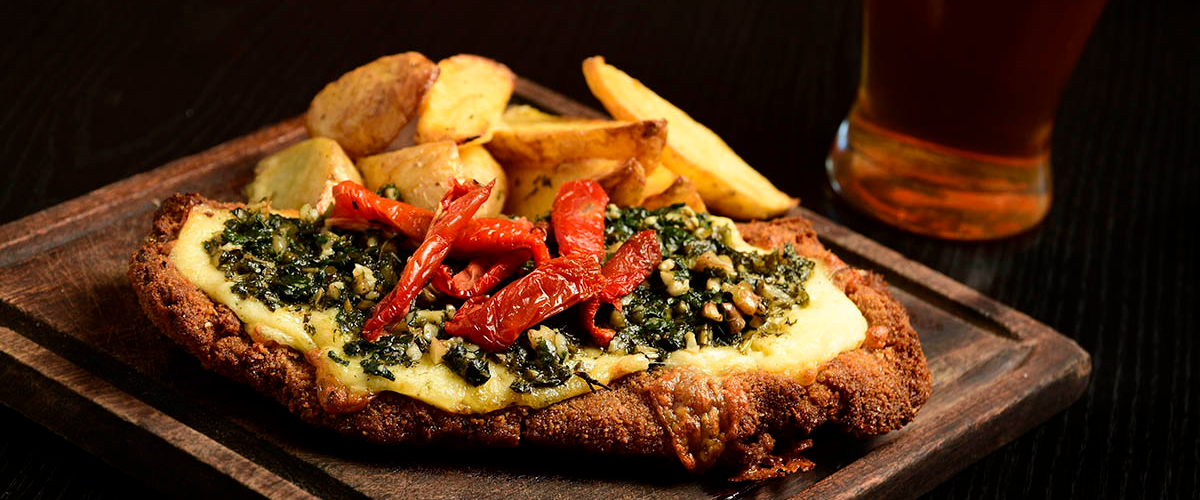
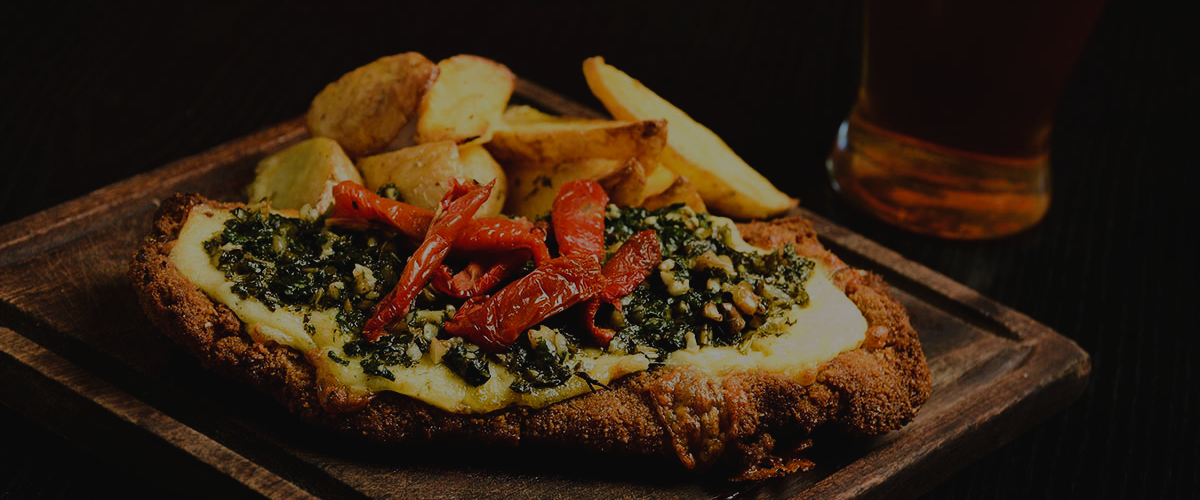
Add files via upload

diff --git a/index2.html b/index2.html
@@ -15,7 +15,7 @@
                 <button class="navbar-toggler" type="button" data-bs-toggle="collapse" data-bs-target="#navbarTogglerDemo03" aria-controls="navbarTogglerDemo03" aria-expanded="false" aria-label="Toggle navigation">
                     <span class="navbar-toggler-icon icono.index"></span>
                 </button>
-                <a class="navbar-brand" href="index.html"><img src="imgs/logo.png" alt="" id="logo-header"></a>
+                <a class="navbar-brand" href="index.html"><img src="/imgs/logo.png" alt="" id="logo-header"></a>
                 <div class="collapse navbar-collapse" id="navbarTogglerDemo03">
                     <ul class="navbar-nav me-auto mb-2 mb-lg-0">
                         <li class="nav-item">
@@ -29,14 +29,10 @@
                         </li>
                     </ul>
                 </div>
-                <svg xmlns="http://www.w3.org/2000/svg" width="30" height="30" fill="currentColor" class="bi bi-person-circle" viewBox="0 0 16 16">
-                    <a href="registro.html" class="a-registro">
-                        <path d="M11 6a3 3 0 1 1-6 0 3 3 0 0 1 6 0z"/>
-                        <path fill-rule="evenodd" d="M0 8a8 8 0 1 1 16 0A8 8 0 0 1 0 8zm8-7a7 7 0 0 0-5.468 11.37C3.242 11.226 4.805 10 8 10s4.757 1.225 5.468 2.37A7 7 0 0 0 8 1z"/>    
-                    </a>
-                </svg>
             </div>
         </nav>
+        <a href="registro.html" class="a-registro"><img src="imgs/registro.png" alt=""></a>
+
     </header>
         <div id="carouselExampleCaptions" class="carousel slide">
             <div class="carousel-indicators">
@@ -76,29 +72,35 @@
               <span class="visually-hidden">Next</span>
             </button>
         </div>
+        <div class="card text-bg-dark card-mobile">
+            <img src="imgs/card-mobile.png" class="card-img" alt="...">
+            <div class="card-img-overlay">
+              <h5 class="card-title card-title-m">BURGERS POSTA</h5>
+            </div>
+          </div>
     <section class="container" id="cajas-index">
-        <div class="card border-light" style="width: 18rem;">
+        <div class="card border-light card-index" style="width: 18rem;">
             <img src="imgs/index1.png" class="card-img-top" alt="...">
             <div class="card-body">
                 <h5 class="card-title">Sucursales</h5>
                 <a href="contacto.html" class="btn" id="boton-index">¡Visitanos!</a>
             </div>
         </div>
-        <div class="card border-light" style="width: 18rem;">
+        <div class="card border-light card-index" style="width: 18rem;">
             <img src="imgs/index2.png" class="card-img-top" alt="...">
             <div class="card-body">
                 <h5 class="card-title">Nuestros productos</h5>
                 <a href="productos.html" class="btn" id="boton-index">Ver Menú</a>
             </div>
         </div>
-        <div class="card border-light" style="width: 18rem;">
+        <div class="card border-light card-index" style="width: 18rem;">
             <img src="imgs/index3.png" class="card-img-top" alt="...">
             <div class="card-body">
                 <h5 class="card-title">Contacto</h5>
                 <a href="contacto.html" class="btn" id="boton-index">¡Contactános!</a>
             </div>
         </div>
-        <div class="card border-light" style="width: 18rem;">
+        <div class="card border-light card-index" style="width: 18rem;">
             <img src="imgs/index4.png" class="card-img-top" alt="...">
             <div class="card-body">
                 <h5 class="card-title">Nosotros</h5>

diff --git a/styles2.css b/styles2.css
@@ -3,6 +3,14 @@
 *{
     font-family: 'Montserrat', sans-serif;
 }
+.card-mobile{
+    display: none;
+}
+#cabecera_inicio{
+    display: flex;
+    align-content: center;
+    align-items: center;
+    justify-content: space-around;}
 .navbar{
     background-color: #252525!important;
 }
@@ -14,9 +22,6 @@
 }
 .icono-index{
     color: #fa7b00;
-}
-.a-registro{
-    position: fixed;
 }
 .a-registro, .a-redes{
     color: #fa7b00;
@@ -137,15 +142,40 @@
     height: 150px;
 }
 
-@media (min-width: 350px) and (max-width:768px) {
+@media (min-width: 350px) and (max-width:767px) {
     #texto{
         display: none;
+    }
+    #redes{
+        padding: 0rem;
+        justify-content: center;
+    }
+    .a-redes{
+        padding-left: 1cm;
     }
     #foto_contacto{
         display: none;
     }
 }
-
+@media (min-width:768px) and (max-width:1000px) {
+    #texto,h5{
+        font-size: 0.95rem;
+        margin:0cm;
+    }
+    #redes{
+        padding-left: 3rem;
+    }
+    .card-index{
+        margin-bottom: 1cm;
+    }
+    #h1-index{
+        font-size: 2rem;
+    }
+    .carousel-caption,h4 {
+        font-size: 1rem;
+    }
+    
+}
 @media (min-width: 350px) and (max-width:1200px) {
     #foto_contacto{
         display: none;
@@ -155,6 +185,43 @@
 @media (min-width: 992px){
     .navbar-expand-lg .navbar-nav {
         margin-left: 1000px;
+    }
+}
+@media (min-width:350px) and (max-width:535px) {
+    #texto,h5{
+        font-size: 0.95rem;
+        margin:0cm;
+    }
+    #redes{
+        padding-left: 3rem;
+    }
+    .card-index{
+        margin-bottom: 1cm;
+    }
+    #h1-index{
+        font-size: 2rem;
+    }
+    .carousel-caption,h4 {
+        font-size: 1rem;
+    }
+    .carousel{
+        display: none;
+    }
+    .card-mobile{
+        display: flex;
+        border-radius: 0cm;
+    }
+    .card-title-m{
+        font-family: 'Permanent Marker', cursive;
+        font-style: italic;
+        font-weight: 900;
+        font-size: 3rem;
+        display: flex;
+        justify-content: center;    
+    }
+    #redes{
+        display: flex;
+        padding: 0cm;
     }
 }
 /*FINAL ESTILOS CONTACTO*/

diff --git a/index.html b/index.html
@@ -9,12 +9,33 @@
     <link rel="stylesheet" href="styles2.css">
 </head>
 <body>
-    <header id="cabecera_inicio" class="container-fluid">
-        <div class="row" id="modulo1">
-            <div class="col-sm-2" id="marca"></div>
-            <nav class="col-sm-8" id="botonera"></nav>
-            <div class="col-sm-2" id="registro"></div>
-        </div>    
+    <header class="py-3 mb-3 border-bottom">
+        <nav class="navbar navbar-expand-lg bg-body-tertiary">
+            <div class="container-fluid">
+              <a class="navbar-brand" href="#">Navbar</a>
+              <button class="navbar-toggler" type="button" data-bs-toggle="collapse" data-bs-target="#navbarNav" aria-controls="navbarNav" aria-expanded="false" aria-label="Toggle navigation">
+                <span class="navbar-toggler-icon"></span>
+              </button>
+              <div class="collapse navbar-collapse" id="navbarNav">
+                <ul class="navbar-nav">
+                  <li class="nav-item">
+                    <a class="nav-link active" aria-current="page" href="#">Home</a>
+                  </li>
+                  <li class="nav-item">
+                    <a class="nav-link" href="#">Features</a>
+                  </li>
+                  <li class="nav-item">
+                    <a class="nav-link" href="#">Pricing</a>
+                  </li>
+                  <li class="nav-item">
+                    <a class="nav-link disabled">Disabled</a>
+                  </li>
+                </ul>
+              </div>
+            </div>
+          </nav>
+          <a href="registro.html" class="a-registro"><img src="imgs/registro.png" alt=""></a>
+
     </header>
     <section id="carousel_inicio" class="container-fluid">
     </section>
